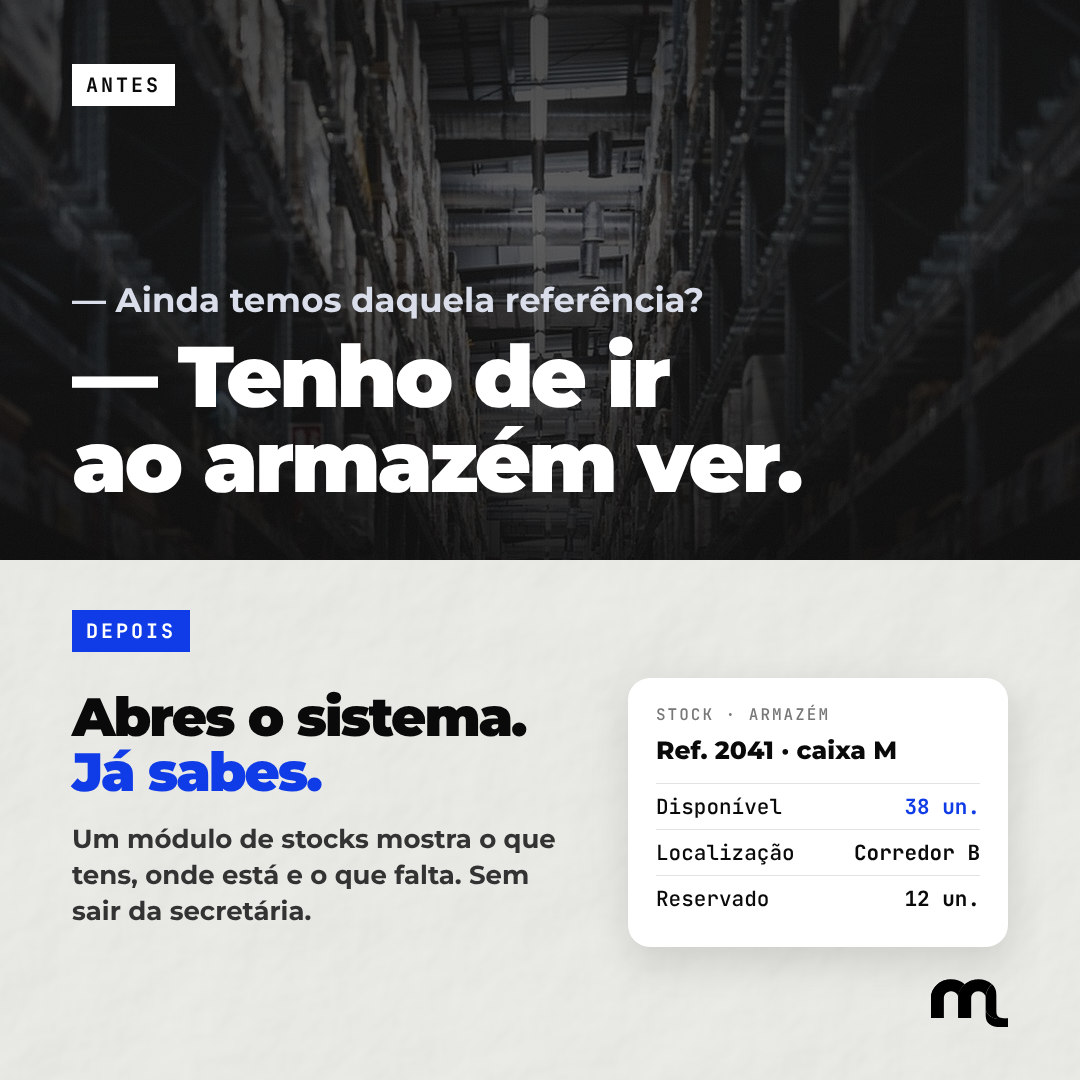
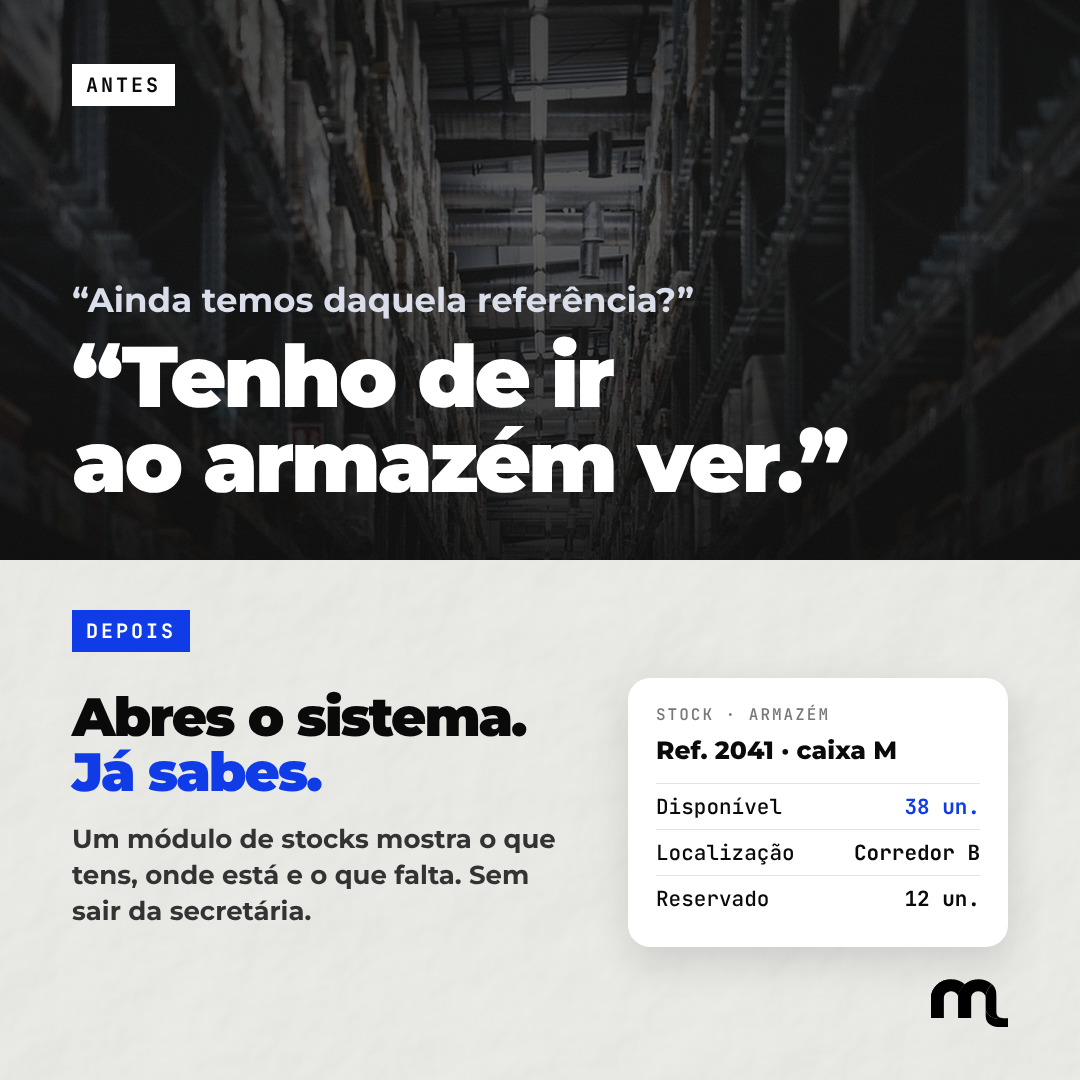
Sem travessões nas publicações (pedido do Mauro); semana 07 corrigida

Changed region(s): [[0.0611, 0.2444, 0.6417, 0.3972], [0.7333, 0.3972, 0.7944, 0.4278]]

diff --git a/scripts/semana07.py b/scripts/semana07.py
@@ -1,4 +1,4 @@
-"""Semana 07 (16–20/11/2026): F5 Antes/Depois (stocks) · F7 Checklist + interação (RH) · F14 Notificação (web e mobile).
+"""Semana 07 (16 a 20/11/2026): F5 Antes/Depois (stocks) · F7 Checklist + interação (RH) · F14 Notificação (web e mobile).
 Uso: python3 scripts/semana07.py
 """
 import sys, pathlib
@@ -7,7 +7,8 @@ from kit import *
 
 REPO = pathlib.Path(__file__).resolve().parent.parent
 OUT = REPO / "imagens" / "semana-07"
-F = REPO / "fotos" / "candidatas"
+import os
+F = pathlib.Path(os.environ.get("MLDEV_FOTOS", REPO / "fotos" / "candidatas"))  # fotos apagadas do repo: ver commit 7164767
 SKY, BLUE, NAVY, PAPER = "#4EC2F9", "#103CE7", "#172041", "#ECECE8"
 
 CSS = """
@@ -30,8 +31,8 @@ p16 = f"""{CSS}<div class="post" style="padding:0;color:#fff">
  {foto_bg(F/'post-16'/'05.jpg', 'escuro', pos='center 40%')}
  <div style="position:absolute;z-index:3;left:72px;top:64px"><span class="lbl" style="background:#fff;color:#0a0a0a">Antes</span></div>
  <div style="position:absolute;z-index:3;left:72px;right:72px;bottom:56px">
-  <div style="font-size:34px;font-weight:600;color:#d9deea;margin-bottom:14px">— Ainda temos daquela referência?</div>
-  <h1 style="font-size:86px;text-transform:none;letter-spacing:-3px;line-height:.98">— Tenho de ir<br>ao armazém ver.</h1>
+  <div style="font-size:34px;font-weight:600;color:#d9deea;margin-bottom:14px">“Ainda temos daquela referência?”</div>
+  <h1 style="font-size:86px;text-transform:none;letter-spacing:-3px;line-height:.98">“Tenho de ir<br>ao armazém ver.”</h1>
  </div>
 </div>
 <div style="position:absolute;left:0;top:560px;width:1080px;height:520px;background:{PAPER};color:#0a0a0a">
@@ -57,7 +58,7 @@ items = [
     "Pedidos de férias perdidos no meio dos e-mails",
     "Faltas apontadas num caderno",
     "Horários num Excel que só uma pessoa percebe",
-    "“Quantos dias de férias me faltam?” — e ninguém sabe ao certo",
+    "“Quantos dias de férias me faltam?” E ninguém sabe ao certo",
 ]
 rows = "".join(f'<div class="row"><div class="box"></div><p>{t}</p></div>' for t in items)
 p17 = f"""{CSS}<div class="post" style="color:#fff">

diff --git a/marca/formatos.md b/marca/formatos.md
@@ -27,7 +27,7 @@ O Mauro não quer publicações monótonas. O modelo "título grande + objeto he
 6. **Variar a composição**: posição do título (topo, centro, fundo, vertical), tamanho, alinhamento, uso de cor. Não usar a mesma grelha duas vezes seguidas.
 7. **Cores**: além do preto, papel claro e azul #103CE7, usar também navy #172041 e azul-claro #4EC2F9 como fundo de vez em quando. Nunca o mesmo fundo em duas publicações seguidas.
 8. **Rodapé com CTA completo** (botão + mldev.pt/contactos + telefone) em **no máximo 1 publicação por semana**. Nas outras: só o logótipo e, quando muito, "mldev.pt" discreto. O CTA vai na descrição.
-9. **Descrições também variam**: abrir de formas diferentes (pergunta, número, frase curta, história de um dia de trabalho, afirmação polémica); não começar sempre por repetir o título; variar o CTA final ("Fala connosco", "Pede proposta", "Envia-nos mensagem", "Comenta X") e a quantidade de emojis.
+9. **Descrições também variam**: abrir de formas diferentes (pergunta, número, frase curta, história de um dia de trabalho, afirmação polémica); não começar sempre por repetir o título; variar o CTA final ("Fala connosco", "Pede proposta", "Envia-nos mensagem", "Comenta X") e a quantidade de emojis. Sem travessões (`—`/`–`), nem nas imagens nem nas descrições.
 10. O fundo com fotografia conta como fundo: não usar o mesmo estilo de `foto_bg()` em duas publicações seguidas.
 11. Antes de gerar, compara os 3 rascunhos com as últimas 6 publicações do histórico. Se parecerem da mesma família, muda.
 

diff --git a/marca/base.md b/marca/base.md
@@ -11,6 +11,7 @@
 - Público: PME em Portugal.
 
 ## Regras
+- **Sem travessões** (pedido do Mauro, 16/11/2026): nunca usar `—` nem `–` em imagens, títulos, descrições ou alt text. Usar ponto, vírgula, dois pontos ou parênteses; falas/diálogos entre aspas “…”; intervalos com “a” ou “ou” (ex.: “1 ou 2”, “16 a 20/11”). Antes do push, procurar `—` e `–` em `descricoes.json` e no script da semana e corrigir.
 - Não mostrar projetos nem clientes pelo nome. Falar de serviços, processo, perguntas frequentes e números gerais.
 - **Desde 16/11/2026 usam-se fotografias de fundo** (ver `formatos.md` → "Foco no cliente e fotografias"). Fotos de banco de imagens (Pixabay; Pexels como alternativa), sempre ligadas ao contexto da publicação e escurecidas para o texto mandar. Nunca fotos de projetos/clientes reais, nem logótipos ou marcas de terceiros visíveis.
 - Elementos ilustrativos (nomes de encomendas, datas, horários) são fictícios e genéricos.

diff --git a/PROCESSO.md b/PROCESSO.md
@@ -41,6 +41,7 @@ Cada publicação só é importada uma vez (chave `semana-NN/post-XX-…`), por 
    - LinkedIn: tom institucional, contexto para empresas, link + telefone, exatamente 5 hashtags.
    - Telefone sempre: "+351 231 109 068 (chamada para a rede fixa nacional)".
    - altText descritivo em cada imagem (inclui o que a foto mostra).
+   - **Sem travessões** (`—` ou `–`) em nenhum texto, nem nas imagens nem nas descrições (pedido do Mauro, 16/11/2026). Ver `marca/base.md`. Confirma com `python3 -c "import re,sys;t=open(sys.argv[1]).read();print(re.findall('[—–]',t))" imagens/semana-NN/descricoes.json` (tem de dar `[]`) e o mesmo para `scripts/semanaNN.py`.
    - Abre as descrições pela dor do cliente (pergunta ou situação do dia a dia), depois a solução — sem repetir o título palavra por palavra.
 
 5. **GitHub**: `git add -A && git commit && git push` para `main`. Confirma que
